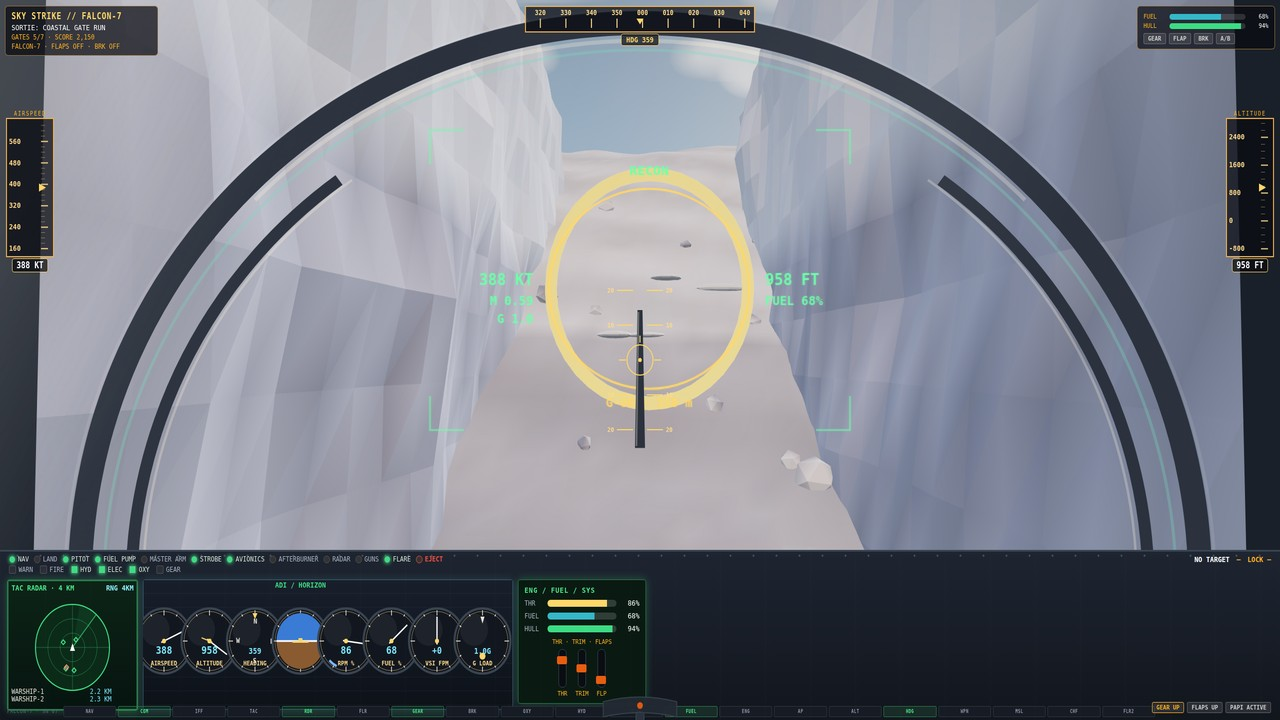
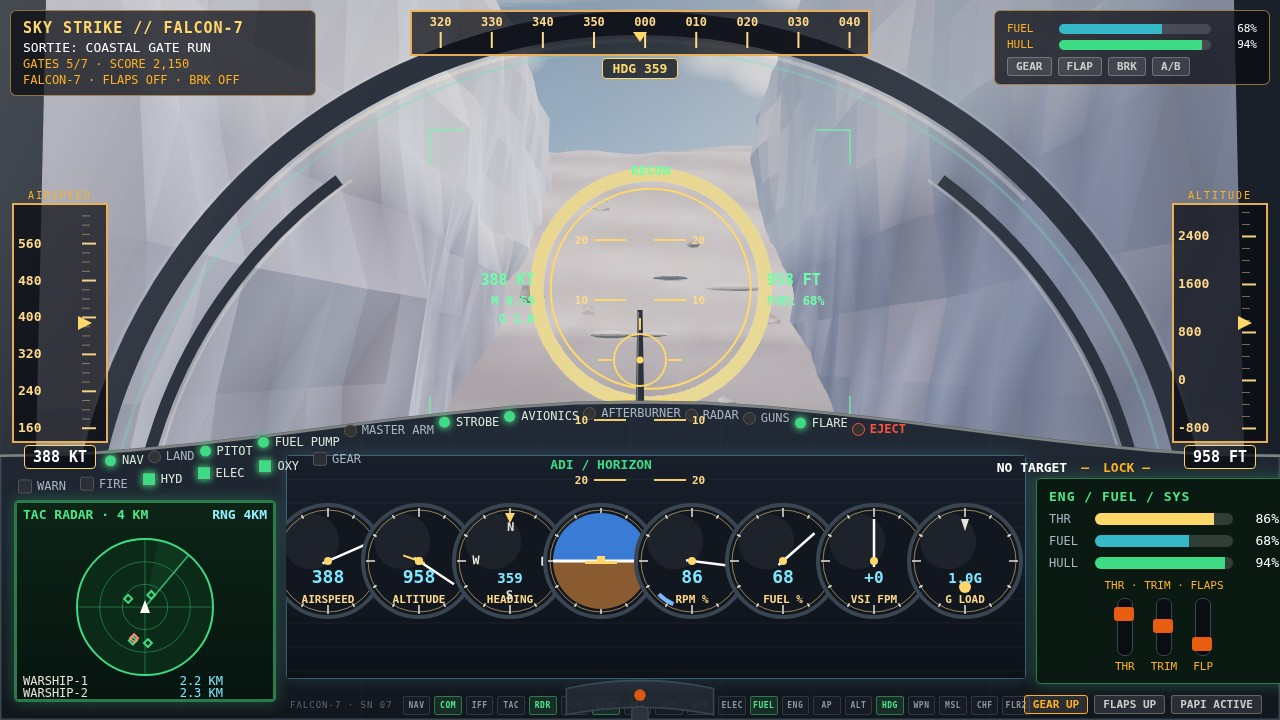
SKY STRIKE v4: cockpit ronde 5 — panel bawah melengkung, bukan persegi panjang (shot 2)
Lyso: panel bawah 'persegi panjang, kesannya ditempel doang'. Bongkar total:
- Body panel kini SVG arch (cosinus panelArchY: tengah 4px, sisi 56px),
  mengikuti bow canopy dan bertemu rail pilar — bukan garis lurus lagi.
  Lip highlight hangat di sepanjang busur; panel 280 -> 312px.
- Switch + lamp row naik mengikuti busur yang sama (layoutArch(),
  translateY per item dari posisi-x aslinya) — tengah tinggi, sisi rendah.
- Gauge tengah sedikit lebih tinggi mengikuti lengkung; MFD 224 -> 200,
  button strip mulai x 290 (tidak tertutup MFD), tgt strip di bawah arch.
- Ronde 5b: switch row mulai x 104 + tgt strip right 130 — kotak tape
  HUD menelan NAV dan memotong LAND jadi 'AND' serta 'LOCK —' jadi dua.
- Ronde 5c: rows z-index 2 di atas display z-index 1 — tanpa ini 'NO',
  ekor OXY dan lampu GEAR hilang di balik canvas gauge.
Selftest 45/45 PASS (check baru: panel top edge is an arch,
centreY=4 minY=4 maxY=56). Shot 2 re-render CDP 1280 native,
JPG 182.597 B (< 256 KB cap). Shot 1/3/4 tidak tersentuh.

diff --git a/game/src/cockpit.js b/game/src/cockpit.js
@@ -13,6 +13,17 @@
 // and the combiner adds the yellow RECON gate ring with live readouts.
 import * as THREE from 'three';
 
+// Ronde 5 (ref-cockpit-clouds, Lyso: panel bawah "persegi panjang,
+// kesannya ditempel"): the panel's top edge is a COSINE ARCH, not a
+// straight line — centre 4 px, sides 56 px, following the canopy bow
+// (the bow's own circle passes through the arch's ends, so the panel
+// meets the pillar rails instead of cutting across them). One function
+// drives BOTH the SVG body path and the switch/lamp row offsets, so
+// the rows can never float above or sink below the lip.
+export function panelArchY(x) {
+  return 30 - 26 * Math.cos((Math.PI * (x - 640)) / 640);
+}
+
 export class Cockpit {
   constructor(root) {
     this.root = root;
@@ -93,6 +104,30 @@ export class Cockpit {
     this.panel.className = 'cockpit-panel';
     root.appendChild(this.panel);
 
+    // Ronde 5: the ARCHED panel body. The div itself is transparent; this
+    // SVG is the panel — a filled path whose top edge is panelArchY()
+    // sampled every 64 px (centre 4, sides 56), with a warm lip highlight
+    // tracing the same curve and a 3 px frame-grey edge. It meets the
+    // pillar rails (the bow's circle passes through the arch's ends) and
+    // tapers at the sides, so the panel reads as one sculpted tub with
+    // the canopy — not a rectangle pasted over the scene. The displays
+    // sit above it (z-index 1, see index.html); the switch/lamp rows
+    // ride the same curve via layoutArch().
+    const body = document.createElement('div');
+    body.className = 'cockpit-panel-body';
+    const pts = [];
+    for (let x = 0; x <= 1280; x += 64) pts.push([x, Math.round(panelArchY(x))]);
+    const topEdge = pts.map(([x, y], i) => `${i === 0 ? 'M' : 'L'}${x},${y}`).join(' ');
+    const bodyD = `M0,312 ${pts.map(([x, y]) => `L${x},${y}`).join(' ')} L1280,312 Z`;
+    body.innerHTML = `<svg viewBox="0 0 1280 312" preserveAspectRatio="none">
+      <defs><linearGradient id="panelGrad" x1="0" y1="0" x2="0" y2="1">
+        <stop offset="0" stop-color="#232b38"/><stop offset="1" stop-color="#12161d"/>
+      </linearGradient></defs>
+      <path class="panel-arch-body" d="${bodyD}" fill="url(#panelGrad)" stroke="#3a4552" stroke-width="3"/>
+      <path class="panel-arch-lip" d="${topEdge}" fill="none" stroke="rgba(255,244,214,0.35)" stroke-width="2.5"/>
+    </svg>`;
+    this.panel.appendChild(body);
+
     // rev: MFD first in the flex row, so the radar sits LEFT like the
     // reference — it is drawn as a circular TAC RADAR scope (see drawMfd).
     // Ronde 2: taller canvas (210) so the scope can grow and the text can
@@ -100,22 +135,28 @@ export class Cockpit {
     // strip of small dark screens. Ronde 3: 224 tall, margin-top 38 (the
     // lamp row moves up to 24) so the displays eat the dead band at the
     // panel bottom; the button strip below covers only empty canvas.
+    // Ronde 5: 200 tall, margin-top 92 — the MFD sits BELOW the arch
+    // (the arch at the MFD's x is ~44) and above the button strip, which
+    // now starts at x 290 so it never hides behind the scope.
     this.mfdCanvas = document.createElement('canvas');
     this.mfdCanvas.className = 'cockpit-mfd';
     this.mfdCanvas.width = 260;
-    this.mfdCanvas.height = 224;
-    this.mfdCanvas.style.marginTop = '38px';
+    this.mfdCanvas.height = 200;
+    this.mfdCanvas.style.marginTop = '92px';
     this.panel.appendChild(this.mfdCanvas);
 
     // gauge canvas: 8 gauges (ronde 2: 740 wide, r 56, taller 210 — the
     // strip is bigger and brighter; see draw() for the layout).
     // Ronde 3: 224 tall like the MFD, so the whole strip reads as one
     // lit display unit instead of dark circles on a black slab.
+    // Ronde 5: margin-top 47 — the centre gauges sit just under the
+    // arch's crown (arch ~4 at the centre) with the switch row riding
+    // the curve above them.
     this.gaugeCanvas = document.createElement('canvas');
     this.gaugeCanvas.className = 'cockpit-gauges';
     this.gaugeCanvas.width = 740;
     this.gaugeCanvas.height = 224;
-    this.gaugeCanvas.style.marginTop = '38px';
+    this.gaugeCanvas.style.marginTop = '47px';
     this.panel.appendChild(this.gaugeCanvas);
 
     // rev: ENG / FUEL / SYS — the reference's right display: THR / FUEL /
@@ -126,7 +167,7 @@ export class Cockpit {
     // screen, not a dark box. (Inline styles: index.html is out of bounds.)
     this.engPanel = document.createElement('div');
     this.engPanel.className = 'cockpit-eng';
-    this.engPanel.style.marginTop = '38px';
+    this.engPanel.style.marginTop = '70px';
     this.engPanel.style.background = '#0a1a12';
     this.engPanel.style.border = '1px solid #2a7a4a';
     this.engPanel.style.boxShadow = '0 0 16px rgba(75,232,138,0.28)';
@@ -172,10 +213,11 @@ export class Cockpit {
     this.panel.appendChild(this.switchRow);
 
     // v4: warning lamp strip — WARN / FIRE / HYD / ELEC / OXY / GEAR
-    // (ronde 3: top 24 so it clears the displays' new 38px margin-top)
+    // Ronde 5: container top 0; layoutArch() translateY's each lamp onto
+    // the panel arch, 26 px below the switch row's curve.
     this.lampRow = document.createElement('div');
     this.lampRow.className = 'cockpit-lamps';
-    this.lampRow.style.top = '24px';
+    this.lampRow.style.top = '0px';
     this.lamps = {};
     for (const [key, label, cls] of [
       ['WARN', 'WARN', 'amber'], ['FIRE', 'FIRE', 'red'], ['HYD', 'HYD', 'green'],
@@ -196,7 +238,7 @@ export class Cockpit {
     // status chips keep the right corner). The placard text survives
     // as the strip's leading label.
     const btnStrip = document.createElement('div');
-    btnStrip.style.cssText = 'position:absolute;bottom:3px;left:14px;right:250px;height:24px;display:flex;gap:4px;align-items:center;';
+    btnStrip.style.cssText = 'position:absolute;bottom:3px;left:290px;right:250px;height:24px;display:flex;gap:4px;align-items:center;';
     const stripLabel = document.createElement('span');
     stripLabel.textContent = 'FALCON-7 · SN 07';
     stripLabel.style.cssText = 'font-size:9px;letter-spacing:1px;color:#5a6472;margin-right:6px;white-space:nowrap;';
@@ -252,6 +294,27 @@ export class Cockpit {
 
   show(on) { this.root.style.display = on ? 'block' : 'none'; }
 
+  // Ronde 5: ride the panel arch — each switch/lamp item is translateY'd
+  // onto panelArchY() at its own centre-x, so the control rows curve with
+  // the panel lip (centre high, sides low) instead of cutting straight
+  // across it. Re-runs when the panel width changes (resize); translateY
+  // is vertical-only, so re-measuring x after a previous run is stable.
+  layoutArch() {
+    const panelRect = this.panel.getBoundingClientRect();
+    if (!panelRect.width) return;
+    const scale = panelRect.width / 1280;
+    const place = (els, lift) => {
+      for (const el of els) {
+        const r = el.getBoundingClientRect();
+        const cx = (r.left - panelRect.left + r.width / 2) / scale;
+        el.style.transform = `translateY(${panelArchY(cx) + lift}px)`;
+      }
+    };
+    place(Object.values(this.switches), 4); // just under the lip
+    place(Object.values(this.lamps), 26);   // one row below the switches
+    this._archW = panelRect.width;
+  }
+
   gauge(x, cx, cy, r, label, draw) {
     x.save();
     x.translate(cx, cy);
@@ -292,6 +355,8 @@ export class Cockpit {
   }
 
   draw(flight, papiState, lockState, targets, camera, ultraOn, runner) {
+    // Ronde 5: keep the control rows on the panel arch (re-layout on resize).
+    if (!this._archW || Math.abs(this.panel.clientWidth - this._archW) > 2) this.layoutArch();
     const x = this.gaugeCanvas.getContext('2d');
     const W = this.gaugeCanvas.width, H = this.gaugeCanvas.height;
     x.clearRect(0, 0, W, H);
@@ -466,7 +531,7 @@ export class Cockpit {
   // Same tactical content as the v4 MFD (live targets + ally + list).
   drawMfd(flight, targets, lk, ultraOn) {
     const x = this.mfdCanvas.getContext('2d');
-    const W = 260, H = 224;
+    const W = 260, H = 200;
     x.clearRect(0, 0, W, H);
     // Ronde 3: a lit green-screen face (was near-black #071410) — the
     // reference's left MFD is a bright green display, not a dark hole.
@@ -478,7 +543,7 @@ export class Cockpit {
     x.font = 'bold 13px monospace'; x.textAlign = 'left';
     x.fillStyle = '#4be88a'; x.fillText('TAC RADAR · 4 KM', 8, 18);
     x.fillStyle = '#8ef0ff'; x.textAlign = 'right'; x.fillText('RNG 4KM', W - 8, 18);
-    const cx = W / 2, cy = 116, R = 74;
+    const cx = W / 2, cy = 106, R = 68;
     // scope face
     x.beginPath(); x.arc(cx, cy, R, 0, Math.PI * 2);
     x.fillStyle = '#0c2a18'; x.fill();
@@ -534,7 +599,7 @@ export class Cockpit {
     x.beginPath(); x.moveTo(cx, cy - 7); x.lineTo(cx + 5, cy + 6); x.lineTo(cx - 5, cy + 6); x.closePath(); x.fill();
     // target list (2 rows fit under the scope)
     x.font = '12px monospace'; x.textAlign = 'left';
-    let ly = 196;
+    let ly = 184;
     const rows = [];
     if (targets) {
       for (const t of targets) {
@@ -552,7 +617,7 @@ export class Cockpit {
       x.fillStyle = '#ffd76a';
       x.fillText(tag, W - 8, ly);
       x.textAlign = 'left';
-      ly += 13;
+      ly += 12;
     }
   }
 

diff --git a/game/index.html b/game/index.html
@@ -105,21 +105,31 @@
      are big lit screens, not a dark strip. Width is capped by the 1280
      frame (260 + 740 + 230 + gaps + padding = 1280 exactly), so the
      growth is height + brightness + font size, not width. */
-  .cockpit-panel { position: absolute; left: 0; right: 0; bottom: 0; height: 280px;
-    background: linear-gradient(180deg, #1e2531 0%, #12161d 100%);
-    border-top: 3px solid #3a4552; display: flex; align-items: flex-start; padding: 10px 14px 0; gap: 10px; }
-  /* v4: rivets along the panel top edge + faint wear streaks */
-  .cockpit-panel::before { content: ''; position: absolute; top: 4px; left: 12px; right: 12px; height: 6px;
-    background-image: radial-gradient(circle, #4a5566 1.6px, transparent 1.8px);
-    background-size: 46px 6px; background-repeat: repeat-x; opacity: 0.8; }
+  /* Ronde 5 (ref-cockpit-clouds, Lyso: panel bawah "persegi panjang,
+     kesannya ditempel"): the panel is NO LONGER a rectangle — its body
+     is an SVG arch (see .cockpit-panel-body in cockpit.js) whose top
+     edge rises 52 px at the centre and tapers at the sides, following
+     the canopy bow. The div itself is transparent; the old straight
+     border-top + rivet strip are gone. Panel height 280 -> 312 so the
+     arch + rows + displays all fit. */
+  .cockpit-panel { position: absolute; left: 0; right: 0; bottom: 0; height: 312px;
+    background: transparent;
+    display: flex; align-items: flex-start; padding: 10px 14px 0; gap: 10px; }
+  /* Ronde 5: the arched panel body — an SVG drawn by cockpit.js (same
+     cosine arch the switch/lamp rows follow). It paints behind every
+     display (z-index 0); the displays sit above it. */
+  .cockpit-panel-body { position: absolute; inset: 0; z-index: 0; pointer-events: none; }
+  .cockpit-panel-body svg { width: 100%; height: 100%; display: block; }
   .cockpit-panel::after { content: ''; position: absolute; inset: 0; pointer-events: none;
     background: repeating-linear-gradient(90deg, rgba(255,255,255,0.012) 0 2px, transparent 2px 90px); }
-  .cockpit-gauges { flex: 0 0 auto; margin-top: 40px; box-shadow: 0 0 16px rgba(126,232,255,0.16); border-radius: 4px; }
-  .cockpit-mfd { flex: 0 0 auto; margin-top: 40px; border-radius: 4px;
+  .cockpit-gauges { flex: 0 0 auto; margin-top: 40px; box-shadow: 0 0 16px rgba(126,232,255,0.16); border-radius: 4px; position: relative; z-index: 1; }
+  .cockpit-mfd { flex: 0 0 auto; margin-top: 40px; border-radius: 4px; position: relative; z-index: 1;
     box-shadow: 0 0 16px rgba(75,232,138,0.28); border: 1px solid #2a7a4a; }
-  /* rev: the ENG / FUEL / SYS display — bars over the throttle quadrant. */
+  /* rev: the ENG / FUEL / SYS display — bars over the throttle quadrant.
+     Ronde 5: position relative + z-index 1 so it paints above the arched
+     SVG panel body. */
   .cockpit-eng { flex: 0 0 230px; margin-top: 40px; background: #10151d;
-    border: 1px solid #3a4552; border-radius: 4px; padding: 10px 12px;
+    border: 1px solid #3a4552; border-radius: 4px; padding: 10px 12px; position: relative; z-index: 1;
     display: flex; flex-direction: column; gap: 7px; box-shadow: 0 0 14px rgba(255,215,106,0.10); }
   .eng-title { font-size: 13px; font-weight: bold; letter-spacing: 1px; color: #4be88a; }
   .eng-row { display: flex; align-items: center; gap: 8px; }
@@ -130,22 +140,35 @@
   .cockpit-eng .cockpit-quadrant { margin: 2px 0 0; }
   .cockpit-eng .cq-title { font-size: 11px; }
   .cockpit-eng .cq-levers { justify-content: center; }
-  .cockpit-eng .cq-track { height: 64px; }
-  .cockpit-tgt { position: absolute; top: 6px; right: 18px; display: flex; gap: 14px; align-items: center;
+  .cockpit-eng .cq-track { height: 56px; }
+  /* Ronde 5: the target strip sits just below the panel arch on the
+     right (the arch there is ~46-56 px), not at the very top where it
+     would float above the body.
+     Ronde 5b: right 18 -> 130 — the HUD's altitude tape box
+     ([1184,445,1256,469] frame) used to swallow the "—" range and clip
+     "LOCK —" in half. The strip now ends at x 1150, clear of the box,
+     still above the ENG panel (top 478). */
+  .cockpit-tgt { position: absolute; top: 62px; right: 130px; display: flex; gap: 14px; align-items: center; z-index: 2;
     font-size: 13px; font-weight: bold; color: #ffb020; }
   .cockpit-tgt .tgt-name { color: #fff; }
   .cockpit-tgt .tgt-lock.on { color: var(--ok); }
   .cockpit-tgt .tgt-shoot { display: none; color: var(--danger); border: 1px solid var(--danger);
     padding: 1px 8px; border-radius: 3px; animation: blink 0.5s steps(2) infinite; }
-  .cockpit-switches { position: absolute; top: 6px; left: 18px; right: 340px; display: flex; gap: 10px; }
+  /* Ronde 5b: the row starts at x 104, not 18 — the HUD's airspeed
+     tape box ([24,445,96,469] frame) sits over the panel's left corner
+     and used to swallow NAV and clip LAND to "AND". Gap 10 -> 4 so the
+     12 switches still fit in the shorter span. layoutArch() re-measures
+     the real x positions, so the arch offsets follow automatically. */
+  .cockpit-switches { position: absolute; top: 0; left: 104px; right: 340px; display: flex; gap: 4px; z-index: 2; }
   .cockpit-switch { display: flex; align-items: center; gap: 5px; font-size: 12px; color: #aab4c2; }
   .cockpit-switch .sw-dot { width: 11px; height: 11px; border-radius: 50%; background: #333; border: 1px solid #555; }
   .cockpit-switch.lit .sw-dot { background: var(--ok); box-shadow: 0 0 7px var(--ok); }
   .cockpit-switch.lit { color: #d8e8d8; }
   .cockpit-switch.eject .sw-label { color: #ff5040; font-weight: bold; }
   .cockpit-switch.eject .sw-dot { border-color: #ff5040; }
-  /* v4: warning lamp strip under the switches */
-  .cockpit-lamps { position: absolute; top: 26px; left: 18px; display: flex; gap: 14px; }
+  /* v4: warning lamp strip — Ronde 5: same arch ride as the switches
+     (container top 0, items translateY'd by cockpit.js). */
+  .cockpit-lamps { position: absolute; top: 0; left: 18px; display: flex; gap: 14px; z-index: 2; }
   .cockpit-lamp { display: flex; align-items: center; gap: 5px; font-size: 12px; color: #aab4c2; }
   .cockpit-lamp .lamp-dot { width: 12px; height: 12px; border-radius: 2px; background: #2a2f38; border: 1px solid #555; }
   .cockpit-lamp.amber.on .lamp-dot { background: #ffb020; box-shadow: 0 0 8px #ffb020; }
@@ -161,7 +184,7 @@
   .cq-lever { display: flex; flex-direction: column; align-items: center; gap: 4px; }
   .cq-track { width: 14px; height: 110px; background: #0a0d12; border: 1px solid #3a4552; border-radius: 7px; position: relative; }
   .cq-knob { position: absolute; left: -4px; width: 20px; height: 14px; background: #e85d10; border-radius: 3px; bottom: 50%; }
-  .cockpit-chips { position: absolute; bottom: 12px; right: 18px; display: flex; flex-direction: row; gap: 6px; align-items: flex-end; }
+  .cockpit-chips { position: absolute; bottom: 6px; right: 18px; display: flex; flex-direction: row; gap: 6px; align-items: flex-end; }
 
   /* ---------- Screens ---------- */
   .screen { position: fixed; inset: 0; z-index: 10; display: flex; align-items: center; justify-content: center;
